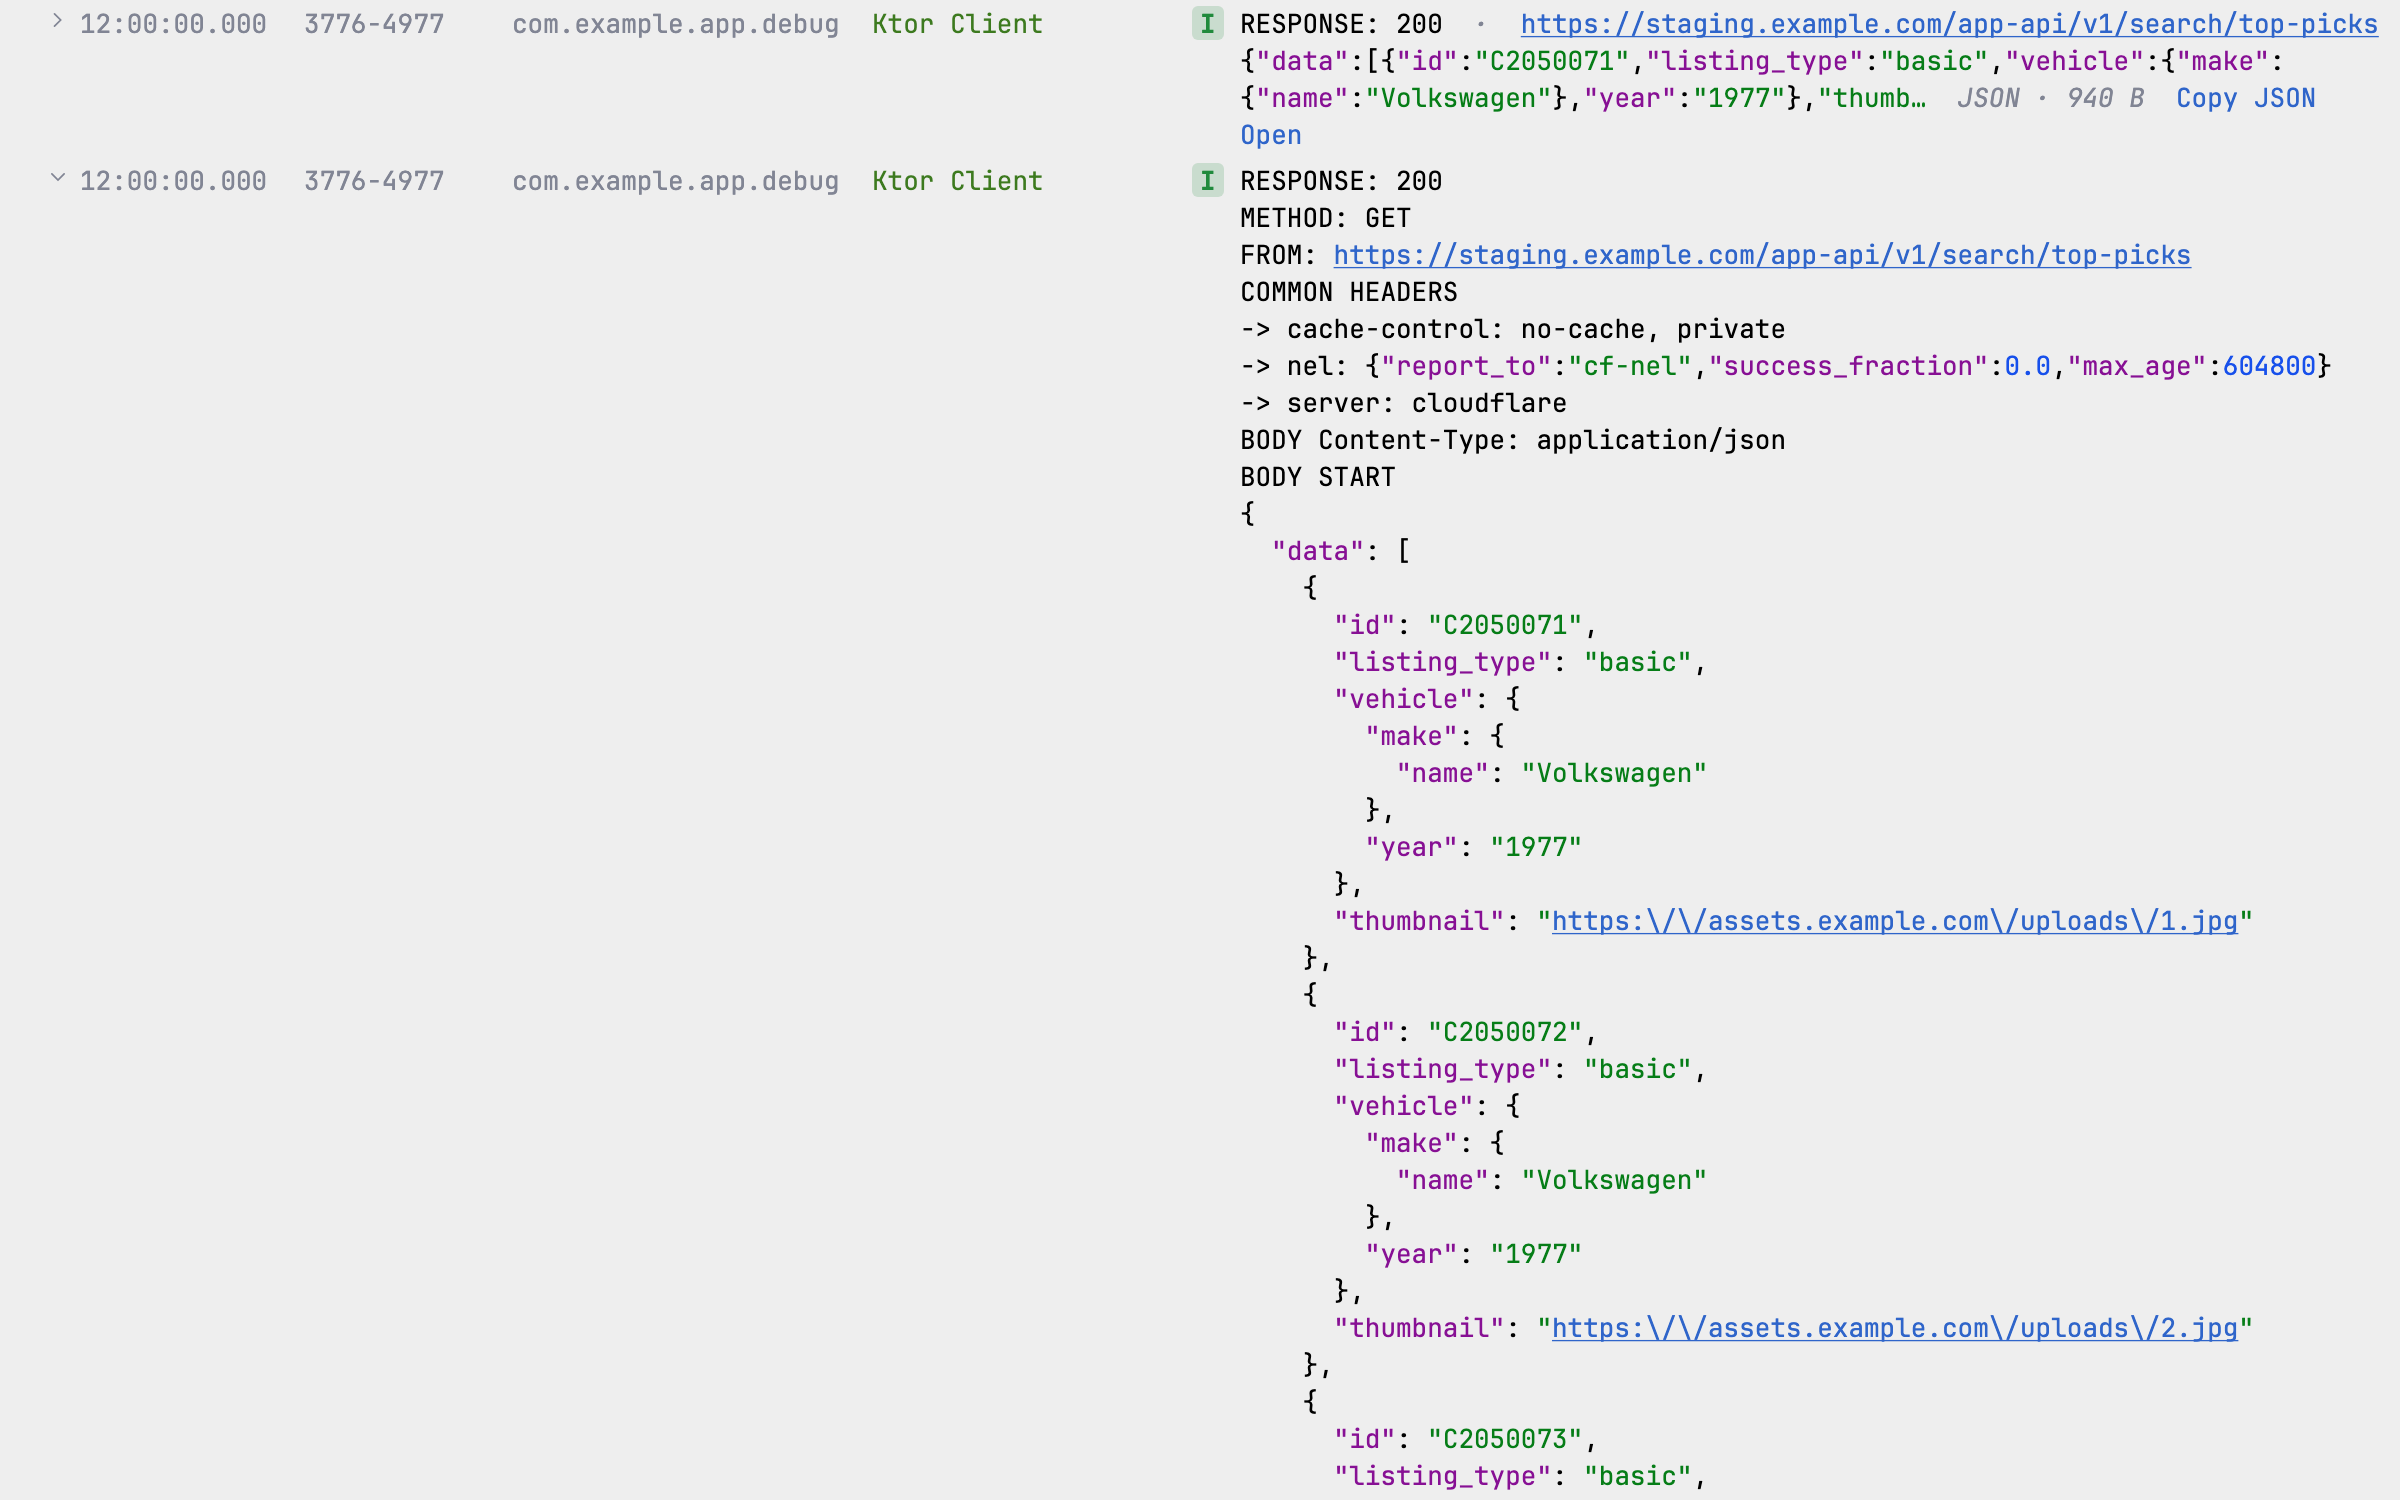
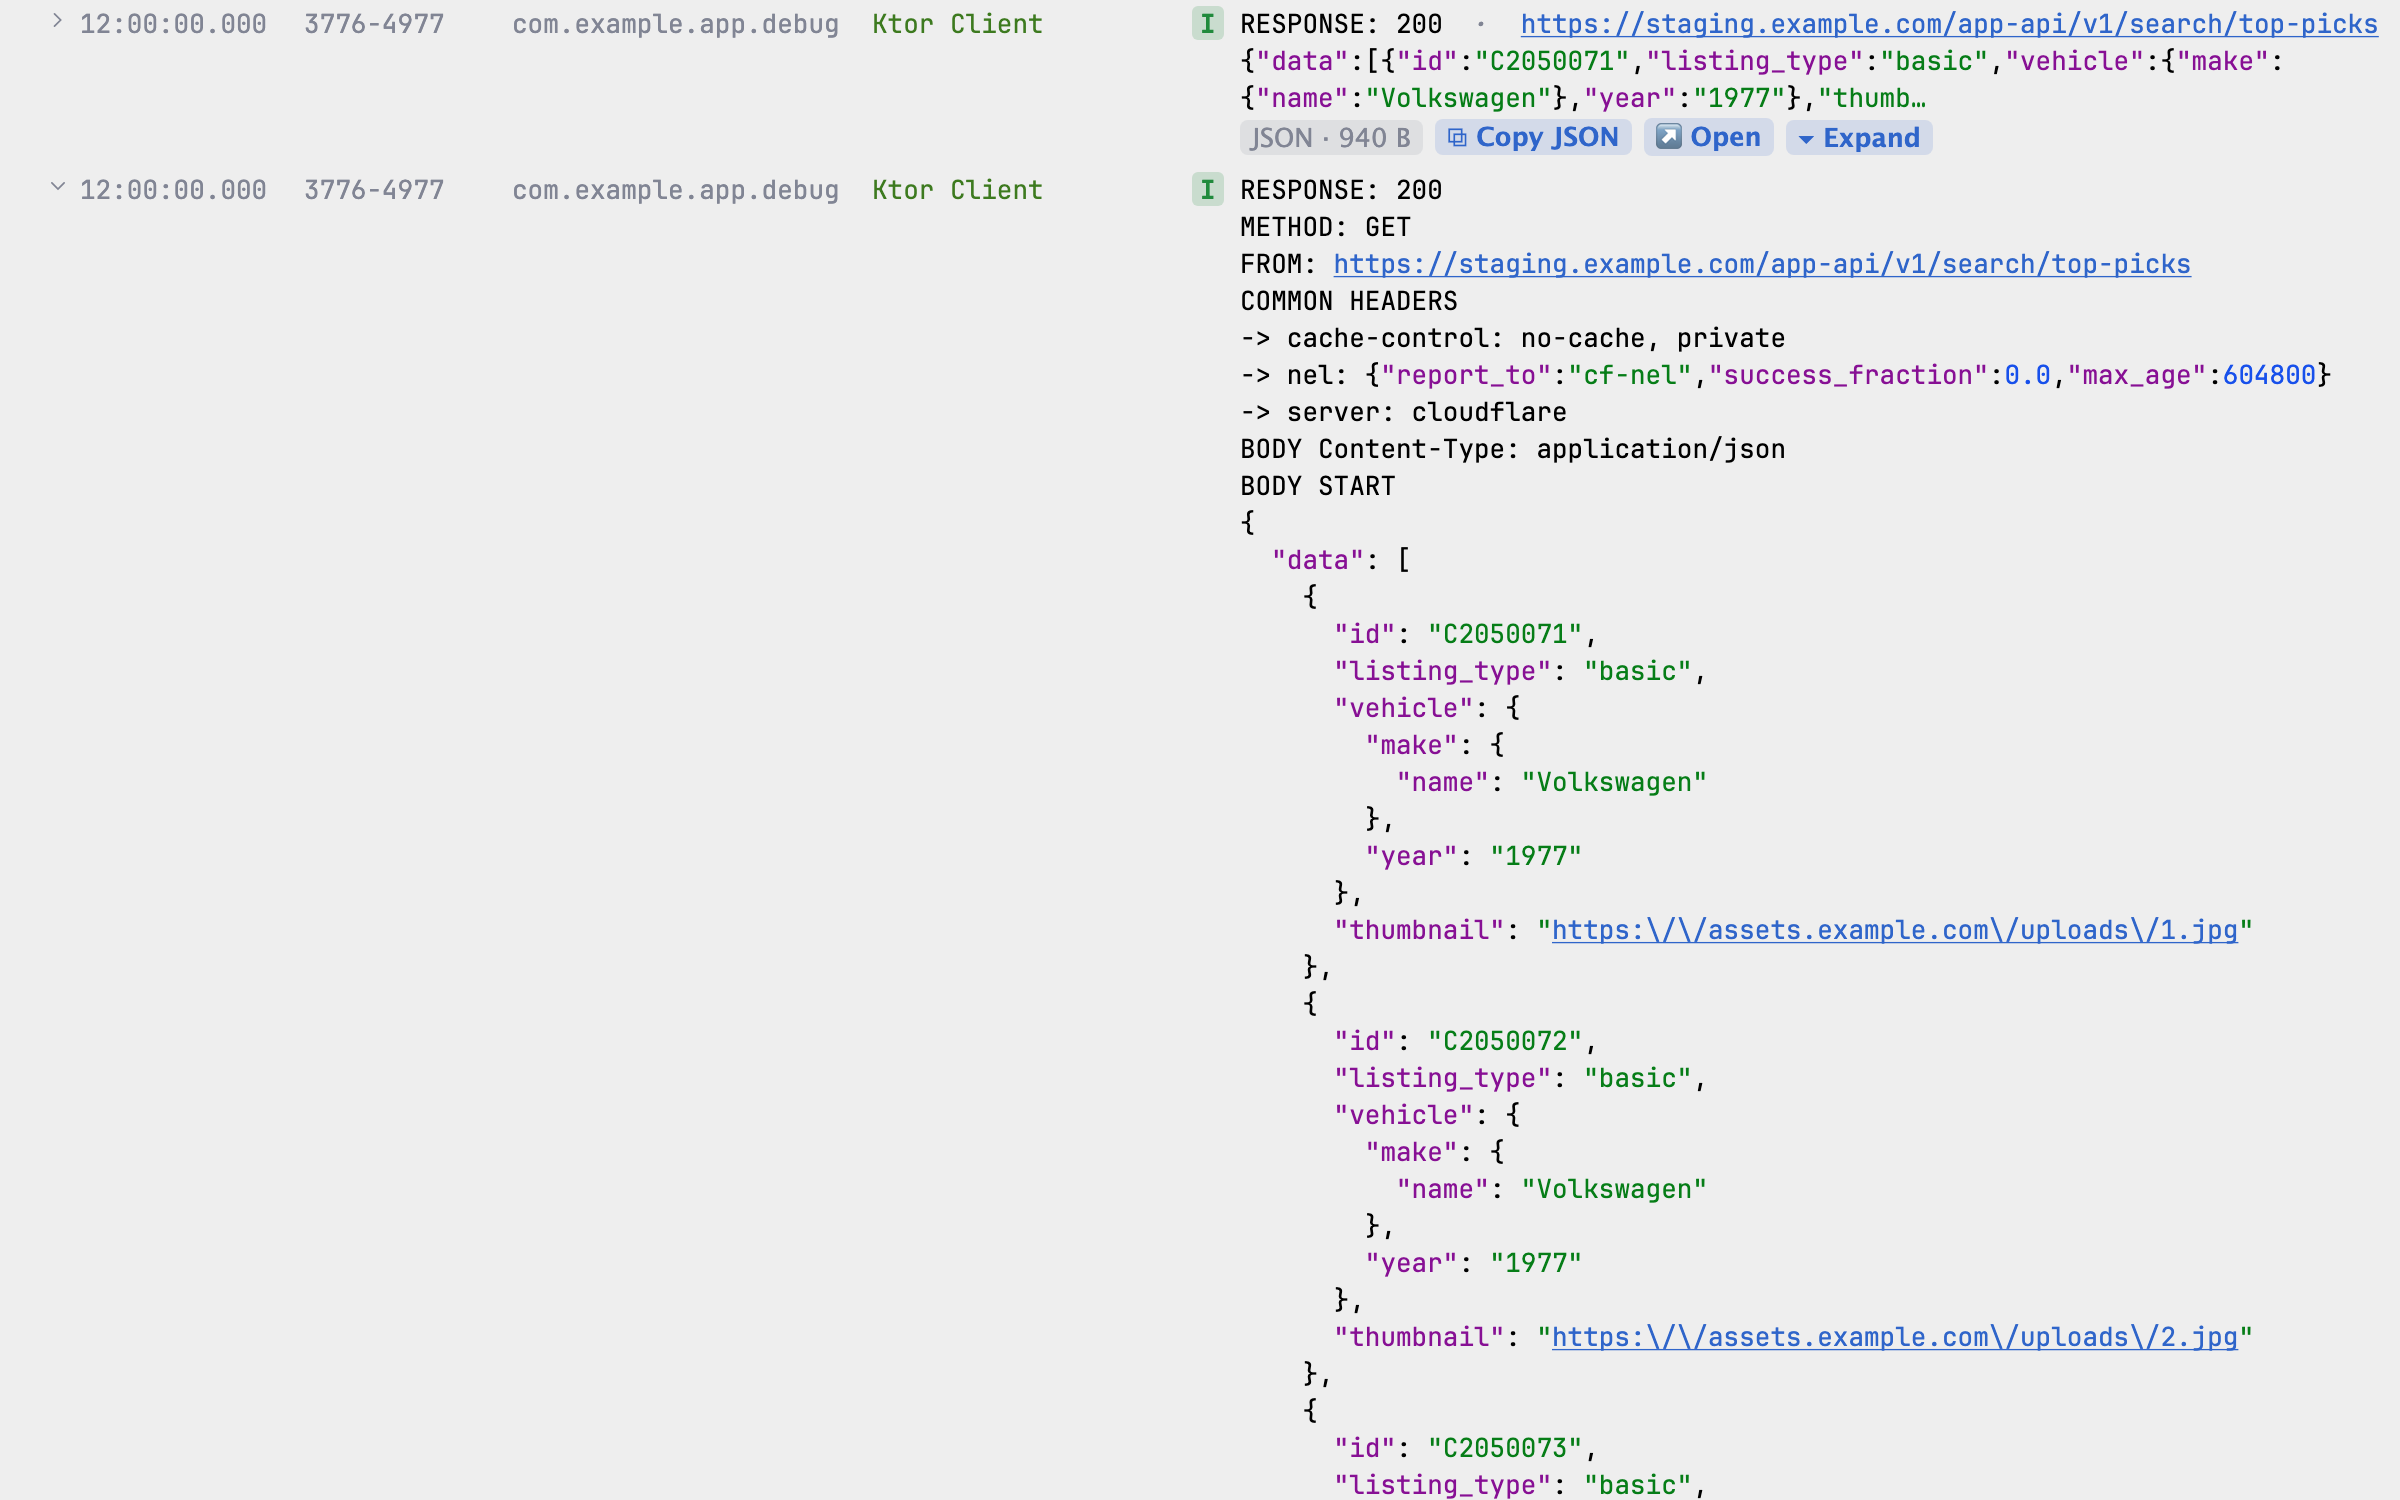
chore: release 0.10.0

diff --git a/README.md b/README.md
@@ -18,10 +18,11 @@ multi-line messages, long JSON, copying, and a busy toolbar.
 
 **Filtering and finding**
 - Studio-style search terms in the search bar, colored and editable, with autocomplete (Ctrl+Space):
-  `package:mine`, `tag:`, `-tag:`, `tag~:regex`, `level:W`, `message:`, `line:`, `process:`, `pid:`, `age:5m`,
+  `package:mine`, `tag:`, `-tag:`, `tag=:a,b` (exact, comma list), `tag~:regex`, `level:W`, `message:`, `line:`, `process:`, `pid:`, `age:5m`,
   `is:crash`, `is:stacktrace`, `is:json`, `name:`.
 - Favorites and history behind the funnel button, with match counts. The last filter is restored.
-- Level toggles, a Tags panel (your app vs. other, counts, per-second sparklines, show only / hide).
+- Level toggles, a Tags panel (your app vs. other, counts, per-second sparklines, show only / hide). The panel
+  writes `tag=:` / `-tag=:` terms into the search text, so tag choices are editable and saved with the filter.
 - Find bar (Cmd/Ctrl+F) that moves between matches without changing the filters.
 
 **Working with entries**

diff --git a/CHANGELOG.md b/CHANGELOG.md
@@ -1,5 +1,12 @@
 # Changelog
 
+## 0.10.0
+- Tags panel choices live in the search text as `tag=:a,b` / `-tag=:a,b` terms: editable, saved in favorites and history, restored next session.
+- `=:` terms take comma lists (`tag=:OkHttp,Garage`, `package=:a,b`).
+- Info and actions (size, Copy JSON, Open, Expand/Collapse) sit on their own strip under the message.
+- Resizable side panels; the Network panel shows the selected call's request and response.
+- Copy JSON and Open look like buttons, not links.
+
 ## 0.9.0
 - Gutter with bookmarks, crash and network icons and quick actions.
 - Network panel: Ktor and OkHttp calls paired, status, time, Copy as cURL.
